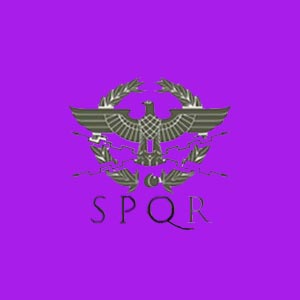
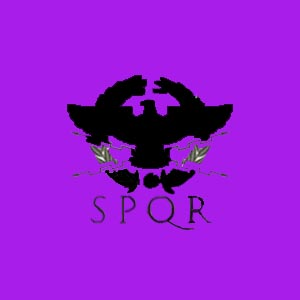
changed spqr eagle

Changed region(s): [[0.21, 0.24, 0.78, 0.66], [0.63, 0.63, 0.69, 0.75]]

diff --git a/web_app/client/src/components/home/Header.vue b/web_app/client/src/components/home/Header.vue
@@ -3,7 +3,7 @@
 
     <div class='nav_div'>
       <div class='eagle_image'>
-        <img src='../../assets/img/eagle2.jpg'>
+        <img class='spqr_eagle' src='../../assets/img/eagle3.jpg'>
       </div>
       <div class='sub_nav_div'>
         <ul>
@@ -41,6 +41,10 @@
   display: grid;
   grid-template-columns: 15% 85%;
 }
+
+/* .spqr_eagle {
+  mix-blend-mode: multiply;
+} */
 
 img {
   width: 100%;
